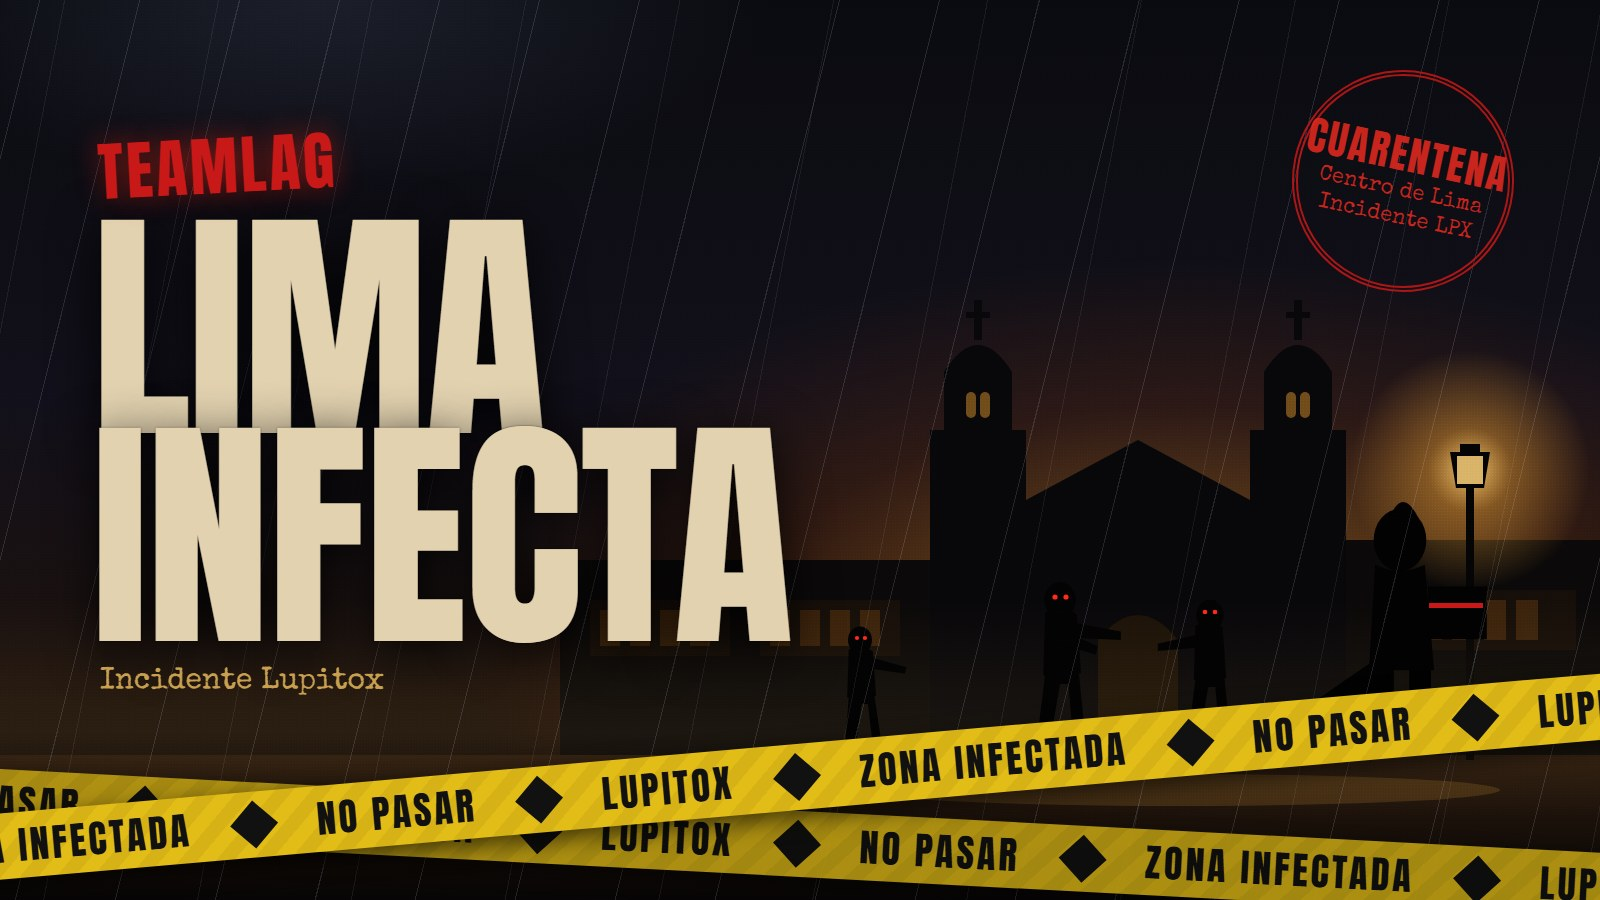
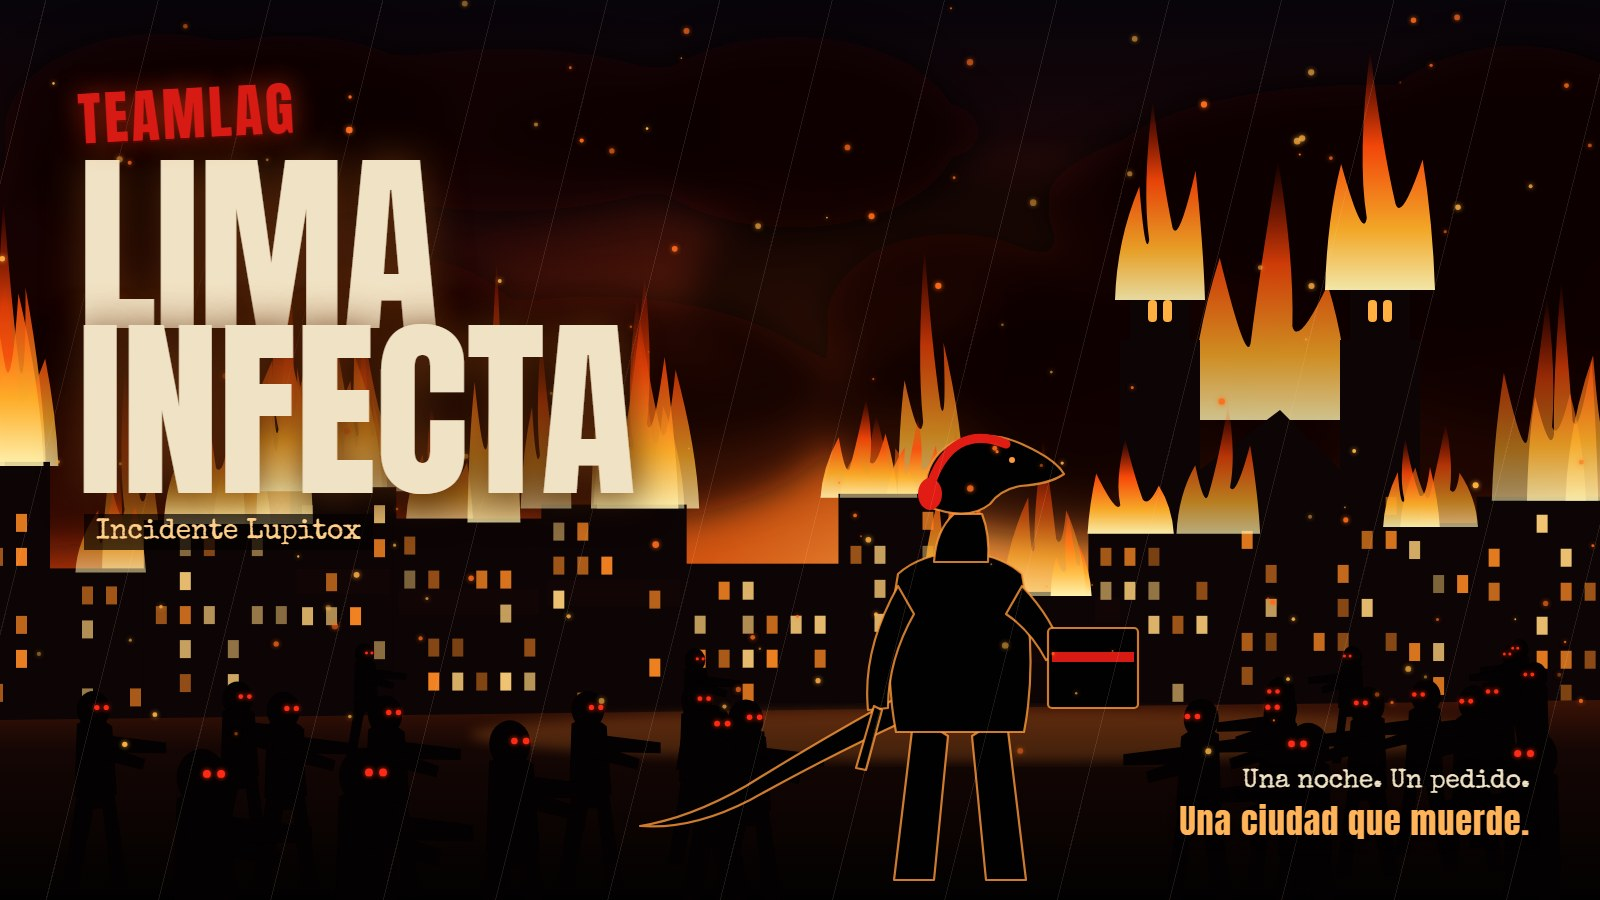
feat(games): portada de Lima Infecta con la ciudad en llamas y texto del home según la sinopsis
Claude-Session: https://claude.ai/code/session_01KjzGMZMi7BwHjvGYCmFtGd

diff --git a/design/lima-infecta/portada.html b/design/lima-infecta/portada.html
@@ -4,191 +4,207 @@
 <meta charset="utf-8">
 <link href="https://fonts.googleapis.com/css2?family=Anton&family=Special+Elite&display=block" rel="stylesheet">
 <style>
-  html, body { margin: 0; padding: 0; background: #000; }
-  .poster {
-    position: relative; width: 1600px; height: 900px; overflow: hidden;
-    background:
-      radial-gradient(ellipse 60% 55% at 74% 70%, rgba(214, 140, 40, .55), rgba(120, 50, 10, .25) 45%, transparent 75%),
-      radial-gradient(ellipse 40% 30% at 20% 0%, rgba(80, 90, 120, .25), transparent 70%),
-      linear-gradient(#0a0b10 0%, #12101a 45%, #1d120c 78%, #0a0706 100%);
-    font-family: Georgia, serif;
-  }
-  .rain {
-    position: absolute; inset: 0; pointer-events: none; opacity: .5;
-    background-image:
-      repeating-linear-gradient(104deg, transparent 0 38px, rgba(210, 220, 240, .28) 38px 39px, transparent 39px 97px),
-      repeating-linear-gradient(101deg, transparent 0 63px, rgba(210, 220, 240, .16) 63px 64px, transparent 64px 151px);
-  }
-  .grain {
-    position: absolute; inset: 0; opacity: .18; mix-blend-mode: overlay;
-    background-image: radial-gradient(rgba(255,255,255,.5) 1px, transparent 1px);
-    background-size: 3px 3px;
-  }
-  svg.city { position: absolute; left: 0; bottom: 0; width: 1600px; height: 900px; }
-  .title {
-    position: absolute; left: 92px; top: 118px; color: #e2d2b0;
-  }
+  html, body { margin: 0; background: #000; }
+  .poster { position: relative; width: 1600px; height: 900px; overflow: hidden; background: #050304; }
+  svg { position: absolute; inset: 0; width: 1600px; height: 900px; }
+  .title { position: absolute; left: 78px; top: 70px; color: #f0e2c4; }
   .stamp {
-    display: inline-block; font-family: Anton, Impact, sans-serif; font-size: 64px; letter-spacing: 3px;
-    color: #c81818; transform: rotate(-3deg); text-shadow: 0 0 28px rgba(255, 40, 20, .45);
-    margin-left: 6px;
+    display: inline-block; font-family: Anton, Impact, sans-serif; font-size: 58px; letter-spacing: 3px;
+    color: #d81a14; transform: rotate(-3deg); text-shadow: 0 0 26px rgba(255, 60, 20, .6), 0 2px 0 #300;
   }
   .name {
-    font-family: Anton, Impact, sans-serif; font-size: 248px; line-height: .84; text-transform: uppercase;
-    letter-spacing: -2px; margin-top: 10px;
-    text-shadow: 0 10px 50px rgba(0,0,0,.85), 0 0 2px rgba(0,0,0,.6);
+    font-family: Anton, Impact, sans-serif; font-size: 196px; line-height: .84; text-transform: uppercase;
+    letter-spacing: -1px; margin-top: 6px;
+    text-shadow: 0 0 40px rgba(255, 120, 30, .35), 0 8px 40px rgba(0, 0, 0, .9);
   }
-  .sub {
-    font-family: 'Special Elite', monospace; font-size: 30px; color: #c8a050; margin-top: 26px; margin-left: 8px;
+  .sub { display: inline-block; font-family: 'Special Elite', monospace; font-size: 28px; color: #ffcf8a; margin: 22px 0 0 6px; padding: 4px 12px; background: rgba(5,2,2,.7); }
+  .tag {
+    position: absolute; right: 70px; bottom: 54px; text-align: right;
+    font-family: 'Special Elite', monospace; font-size: 26px; color: #f0e2c4; text-shadow: 0 2px 12px #000;
   }
-  .tape {
-    position: absolute; left: -80px; width: 1800px; height: 66px;
-    background: #e3bd17;
-    box-shadow: 0 8px 22px rgba(0,0,0,.6);
-    display: flex; align-items: center; gap: 46px; white-space: nowrap; overflow: hidden;
-    font-family: Anton, Impact, sans-serif; font-size: 38px; letter-spacing: 3px; color: #111;
-    background-image: repeating-linear-gradient(135deg, rgba(0,0,0,.06) 0 14px, transparent 14px 28px);
+  .tag b { font-family: Anton, Impact, sans-serif; font-weight: 400; color: #ffb45a; font-size: 34px; letter-spacing: 1px; }
+  .rain {
+    position: absolute; inset: 0; opacity: .22; pointer-events: none;
+    background-image: repeating-linear-gradient(104deg, transparent 0 44px, rgba(255, 220, 190, .5) 44px 45px, transparent 45px 109px);
   }
-  .tape span { flex: none; }
-  .tape i { flex: none; width: 34px; height: 34px; background: #111; transform: rotate(45deg); }
-  .tape-1 { top: 742px; transform: rotate(-5deg); }
-  .tape-2 { top: 812px; transform: rotate(3deg); opacity: .92; filter: brightness(.82); }
-  .seal {
-    position: absolute; right: 86px; top: 70px; width: 210px; height: 210px; border-radius: 50%;
-    border: 6px double rgba(200, 24, 24, .85); color: rgba(220, 40, 30, .9);
-    display: grid; place-items: center; text-align: center; transform: rotate(12deg);
-    font-family: 'Special Elite', monospace; font-size: 22px; line-height: 1.25;
-    box-shadow: inset 0 0 0 10px transparent;
-  }
-  .seal b { display: block; font-family: Anton, Impact, sans-serif; font-weight: 400; font-size: 40px; letter-spacing: 2px; }
 </style>
 </head>
 <body>
-<div class="poster" id="poster">
-  <svg class="city" viewBox="0 0 1600 900" aria-hidden="true">
+<div class="poster">
+  <svg viewBox="0 0 1600 900" id="art">
     <defs>
-      <radialGradient id="lamp" cx="50%" cy="50%" r="50%">
-        <stop offset="0" stop-color="#ffd27a" stop-opacity=".95"/>
-        <stop offset=".35" stop-color="#e09a35" stop-opacity=".45"/>
-        <stop offset="1" stop-color="#e09a35" stop-opacity="0"/>
-      </radialGradient>
-      <linearGradient id="wet" x1="0" y1="0" x2="0" y2="1">
-        <stop offset="0" stop-color="#2a1a0e"/>
-        <stop offset="1" stop-color="#070505"/>
+      <linearGradient id="sky" x1="0" y1="0" x2="0" y2="1">
+        <stop offset="0" stop-color="#07040a"/>
+        <stop offset=".35" stop-color="#2a0806"/>
+        <stop offset=".62" stop-color="#9a2a08"/>
+        <stop offset=".78" stop-color="#e2620f"/>
+        <stop offset="1" stop-color="#2a0a04"/>
       </linearGradient>
+      <radialGradient id="blaze" cx="62%" cy="70%" r="55%">
+        <stop offset="0" stop-color="#ffcf6a" stop-opacity=".9"/>
+        <stop offset=".35" stop-color="#ff7a1a" stop-opacity=".55"/>
+        <stop offset="1" stop-color="#ff4a10" stop-opacity="0"/>
+      </radialGradient>
+      <linearGradient id="flame" x1="0" y1="1" x2="0" y2="0">
+        <stop offset="0" stop-color="#fff2b0"/>
+        <stop offset=".25" stop-color="#ffb02a"/>
+        <stop offset=".6" stop-color="#ff4a0a"/>
+        <stop offset="1" stop-color="#ff2a00" stop-opacity="0"/>
+      </linearGradient>
+      <linearGradient id="street" x1="0" y1="0" x2="0" y2="1">
+        <stop offset="0" stop-color="#3a1206"/>
+        <stop offset=".25" stop-color="#140604"/>
+        <stop offset="1" stop-color="#020101"/>
+      </linearGradient>
+      <filter id="blur18"><feGaussianBlur stdDeviation="18"/></filter>
+      <filter id="blur6"><feGaussianBlur stdDeviation="6"/></filter>
+      <filter id="glow"><feGaussianBlur stdDeviation="2.5" result="b"/><feMerge><feMergeNode in="b"/><feMergeNode in="SourceGraphic"/></feMerge></filter>
     </defs>
 
-    <!-- Catedral de Lima: dos torres con campanarios y cúpulas -->
-    <g fill="#08070a">
-      <rect x="930" y="430" width="96" height="330"/>
-      <rect x="944" y="372" width="68" height="70"/>
-      <path d="M944 372 Q978 318 1012 372 Z"/>
-      <rect x="974" y="300" width="8" height="40"/>
-      <rect x="966" y="312" width="24" height="6"/>
-      <rect x="1250" y="430" width="96" height="330"/>
-      <rect x="1264" y="372" width="68" height="70"/>
-      <path d="M1264 372 Q1298 318 1332 372 Z"/>
-      <rect x="1294" y="300" width="8" height="40"/>
-      <rect x="1286" y="312" width="24" height="6"/>
-      <rect x="1026" y="500" width="224" height="260"/>
-      <path d="M1026 500 L1138 440 L1250 500 Z"/>
-      <path d="M1098 760 L1098 640 Q1138 590 1178 640 L1178 760 Z" fill="#1c1208"/>
-    </g>
-    <!-- ventanas de campanario con luz tenue -->
-    <g fill="#c8862a" opacity=".55">
-      <rect x="966" y="392" width="10" height="26" rx="5"/><rect x="980" y="392" width="10" height="26" rx="5"/>
-      <rect x="1286" y="392" width="10" height="26" rx="5"/><rect x="1300" y="392" width="10" height="26" rx="5"/>
-    </g>
+    <rect width="1600" height="900" fill="url(#sky)"/>
+    <rect width="1600" height="900" fill="url(#blaze)"/>
+    <g id="smoke" filter="url(#blur18)"></g>
+    <g id="flamesBack"></g>
+    <g id="city" fill="#0c0405"></g>
+    <g id="windows"></g>
+    <g id="flamesFront"></g>
 
-    <!-- Casonas con balcones limeños -->
-    <g fill="#0b0909">
-      <rect x="560" y="560" width="370" height="200"/>
-      <rect x="1346" y="540" width="270" height="220"/>
-    </g>
-    <g fill="#160e09">
-      <rect x="590" y="600" width="140" height="56"/>
-      <rect x="760" y="600" width="140" height="56"/>
-      <rect x="1376" y="590" width="200" height="60"/>
-    </g>
-    <g fill="#5a3410" opacity=".55">
-      <rect x="600" y="610" width="20" height="36"/><rect x="630" y="610" width="20" height="36"/><rect x="660" y="610" width="20" height="36"/><rect x="690" y="610" width="20" height="36"/>
-      <rect x="770" y="610" width="20" height="36"/><rect x="800" y="610" width="20" height="36"/><rect x="830" y="610" width="20" height="36"/><rect x="860" y="610" width="20" height="36"/>
-      <rect x="1388" y="600" width="22" height="40"/><rect x="1420" y="600" width="22" height="40"/><rect x="1452" y="600" width="22" height="40"/><rect x="1484" y="600" width="22" height="40"/><rect x="1516" y="600" width="22" height="40"/>
-    </g>
+    <!-- calle -->
+    <path d="M0 720 L1600 700 L1600 900 L0 900 Z" fill="url(#street)"/>
+    <ellipse cx="990" cy="735" rx="520" ry="26" fill="#ff8a2a" opacity=".22" filter="url(#blur6)"/>
 
-    <!-- calle mojada -->
-    <rect x="0" y="755" width="1600" height="145" fill="url(#wet)"/>
-    <ellipse cx="1180" cy="790" rx="320" ry="16" fill="#e09a35" opacity=".18"/>
+    <g id="horde"></g>
+    <g id="eyes" filter="url(#glow)"></g>
 
-    <!-- farol -->
-    <circle cx="1470" cy="470" r="120" fill="url(#lamp)"/>
-    <g fill="#060506">
-      <rect x="1466" y="480" width="8" height="280"/>
-      <path d="M1450 452 L1490 452 L1484 488 L1456 488 Z"/>
-      <rect x="1460" y="444" width="20" height="8"/>
-    </g>
-    <rect x="1457" y="456" width="26" height="28" fill="#ffd27a" opacity=".85"/>
-
-    <!-- niebla baja -->
-    <linearGradient id="fog" x1="0" y1="0" x2="0" y2="1"><stop offset="0" stop-color="#c8a050" stop-opacity="0"/><stop offset=".6" stop-color="#c8a050" stop-opacity=".09"/><stop offset="1" stop-color="#c8a050" stop-opacity="0"/></linearGradient><rect x="0" y="600" width="1600" height="220" fill="url(#fog)"/>
-
-    <!-- infectados acercándose desde la Catedral -->
-    <g fill="#040304">
-      <g transform="translate(1060 600) scale(1.05)">
-        <ellipse cx="0" cy="0" rx="15" ry="17"/>
-        <path d="M-14 12 Q0 4 16 14 L20 70 L-16 72 Z"/>
-        <path d="M14 22 L58 30 L58 38 L14 36 Z"/><path d="M-10 24 L36 44 L34 52 L-12 38 Z"/>
-        <path d="M-14 70 L-24 150 L-12 150 L0 80 L8 80 L14 150 L26 150 L18 70 Z"/>
+    <!-- Lag: de espaldas, solo, con la caja del pedido -->
+    <g id="lag" transform="translate(960 500)">
+      <g fill="#020101" stroke="#ff9a3a" stroke-width="2.2" stroke-opacity=".8" stroke-linejoin="round">
+        <!-- cola gruesa que se afina hacia la izquierda -->
+        <path d="M-40 214 Q-120 250 -210 300 Q-268 330 -320 326 Q-270 318 -214 286 Q-140 240 -60 196 Z"/>
+        <!-- piernas -->
+        <path d="M-46 214 L-66 380 L-26 380 L-12 236 Z"/>
+        <path d="M46 214 L66 380 L26 380 L12 236 Z"/>
+        <!-- torso con chaqueta -->
+        <path d="M-62 74 Q-78 160 -64 232 L64 232 Q78 160 62 74 Q40 54 0 52 Q-40 54 -62 74 Z"/>
+        <!-- brazo izquierdo con cuchillo de cocina -->
+        <path d="M-62 86 Q-98 150 -92 210 L-72 208 Q-72 160 -46 114 Z"/>
+        <path d="M-86 206 L-104 268 L-94 270 L-78 210 Z"/>
+        <!-- brazo derecho sujetando el pedido -->
+        <path d="M62 86 Q94 120 102 152 L86 160 Q70 130 46 114 Z"/>
+        <rect x="88" y="128" width="90" height="80" rx="4"/>
+        <!-- cuello y cabeza de lagarto mirando a la ciudad (hocico hacia arriba a la derecha) -->
+        <path d="M-26 62 Q-24 30 -6 14 L22 14 Q30 34 28 62 Z"/>
+        <path d="M-34 6 Q-40 -40 -6 -58 Q30 -72 66 -54 Q96 -40 104 -26 Q90 -16 60 -14 Q40 -10 30 4 Q8 22 -34 6 Z"/>
       </g>
-      <g transform="translate(860 640) scale(.8)">
-        <ellipse cx="0" cy="0" rx="15" ry="17"/>
-        <path d="M-14 12 Q0 4 16 14 L20 70 L-16 72 Z"/>
-        <path d="M14 22 L58 34 L56 42 L14 36 Z"/>
-        <path d="M-14 70 L-20 150 L-8 150 L2 80 L10 80 L18 150 L30 150 L18 70 Z"/>
-      </g>
-      <g transform="translate(1210 615) scale(.9)">
-        <ellipse cx="0" cy="0" rx="15" ry="17"/>
-        <path d="M-16 12 Q0 4 14 14 L18 70 L-18 72 Z"/>
-        <path d="M-14 22 L-58 32 L-58 40 L-14 36 Z"/>
-        <path d="M-16 70 L-26 150 L-14 150 L-2 80 L6 80 L12 150 L24 150 L16 70 Z"/>
-      </g>
+      <!-- audífonos rojos, como en el juego -->
+      <path d="M-30 -14 Q-8 -78 46 -56" fill="none" stroke="#e01c14" stroke-width="9" stroke-linecap="round"/>
+      <ellipse cx="-30" cy="-6" rx="12" ry="16" fill="#e01c14"/>
+      <!-- franja roja de la caja del pedido -->
+      <rect x="92" y="152" width="82" height="10" fill="#d81a14"/>
+      <circle cx="52" cy="-40" r="3" fill="#ff9a3a"/>
     </g>
-    <g fill="#ff2a1a">
-      <circle cx="1055" cy="597" r="2.6"/><circle cx="1066" cy="597" r="2.6"/>
-      <circle cx="857" cy="638" r="2.1"/><circle cx="865" cy="638" r="2.1"/>
-      <circle cx="1205" cy="612" r="2.3"/><circle cx="1215" cy="612" r="2.3"/>
-    </g>
-
-    <!-- Lag a contraluz del farol: lagarto delivery con su caja -->
-    <g transform="translate(1400 540) scale(1.55)" fill="#020202">
-      <ellipse cx="0" cy="0" rx="17" ry="20"/>
-      <path d="M-6 -16 Q2 -34 12 -14 Z"/>
-      <path d="M-16 16 Q0 24 16 16 L22 84 L-20 84 Z"/>
-      <rect x="-18" y="82" width="14" height="52"/>
-      <rect x="6" y="82" width="14" height="52"/>
-      <path d="M-14 76 Q-56 104 -84 126 Q-90 132 -82 132 Q-46 116 -6 92 Z"/>
-      <rect x="18" y="30" width="38" height="34"/>
-    </g>
-    <rect x="1429" y="603" width="54" height="5" fill="#c81818"/>
+    <g id="embers" filter="url(#glow)"></g>
   </svg>
-
   <div class="rain"></div>
-  <div class="grain"></div>
-
-  <div class="seal"><span><b>CUARENTENA</b>Centro de Lima<br>Incidente LPX</span></div>
 
   <div class="title">
     <span class="stamp">TEAMLAG</span>
     <div class="name">Lima<br>Infecta</div>
     <div class="sub">Incidente Lupitox</div>
   </div>
-
-  <div class="tape tape-2">
-    <span>NO PASAR</span><i></i><span>ZONA INFECTADA</span><i></i><span>LUPITOX</span><i></i><span>NO PASAR</span><i></i><span>ZONA INFECTADA</span><i></i><span>LUPITOX</span><i></i><span>NO PASAR</span><i></i><span>ZONA INFECTADA</span>
-  </div>
-  <div class="tape tape-1">
-    <span>ZONA INFECTADA</span><i></i><span>NO PASAR</span><i></i><span>LUPITOX</span><i></i><span>ZONA INFECTADA</span><i></i><span>NO PASAR</span><i></i><span>LUPITOX</span><i></i><span>ZONA INFECTADA</span><i></i><span>NO PASAR</span>
-  </div>
+  <div class="tag">Una noche. Un pedido.<br><b>Una ciudad que muerde.</b></div>
 </div>
+
+<script>
+  const NS = 'http://www.w3.org/2000/svg';
+  let seed = 7; const rnd = () => (seed = (seed * 16807) % 2147483647) / 2147483647;
+  const el = (tag, attrs, parent) => { const e = document.createElementNS(NS, tag); for (const k in attrs) e.setAttribute(k, attrs[k]); parent.appendChild(e); return e; };
+  const $ = id => document.getElementById(id);
+
+  // Skyline del Centro de Lima: casonas, balcones y la Catedral
+  const city = $('city'), win = $('windows');
+  const blocks = [];
+  let x = -20;
+  while (x < 1620) {
+    const w = 70 + rnd() * 110, h = 120 + rnd() * 150;
+    blocks.push({ x, w, h });
+    x += w - 4;
+  }
+  blocks.forEach(b => {
+    const top = 720 - b.h;
+    el('rect', { x: b.x, y: top, width: b.w, height: b.h + 10 }, city);
+    if (rnd() < .5) el('rect', { x: b.x + 6, y: top + b.h * .35, width: b.w - 12, height: 26, fill: '#120506' }, city);
+    for (let wy = top + 18; wy < 700; wy += 34) for (let wx = b.x + 12; wx < b.x + b.w - 14; wx += 24) {
+      if (rnd() < .45) el('rect', { x: wx, y: wy, width: 11, height: 18, fill: rnd() < .6 ? '#ff8a24' : '#ffd07a', opacity: .45 + rnd() * .5 }, win);
+    }
+  });
+  // Catedral ardiendo, al centro-izquierda del fuego
+  const cx = 1270;
+  [[cx - 150, 340], [cx + 70, 340]].forEach(([tx, ty]) => {
+    el('rect', { x: tx, y: ty, width: 80, height: 720 - ty }, city);
+    el('rect', { x: tx + 10, y: ty - 54, width: 60, height: 58 }, city);
+    el('path', { d: `M${tx + 10} ${ty - 54} Q${tx + 40} ${ty - 104} ${tx + 70} ${ty - 54} Z` }, city);
+    el('rect', { x: tx + 37, y: ty - 132, width: 6, height: 36 }, city);
+    el('rect', { x: tx + 29, y: ty - 122, width: 22, height: 5 }, city);
+    el('rect', { x: tx + 28, y: ty - 40, width: 9, height: 22, rx: 4, fill: '#ffb040' }, win);
+    el('rect', { x: tx + 43, y: ty - 40, width: 9, height: 22, rx: 4, fill: '#ffb040' }, win);
+  });
+  el('path', { d: `M${cx - 70} 470 L${cx + 10} 410 L${cx + 70} 470 Z` }, city);
+  el('rect', { x: cx - 70, y: 470, width: 140, height: 250 }, city);
+
+  // Llamas sobre los techos
+  const fb = $('flamesBack'), ff = $('flamesFront');
+  const flame = (fx, fy, fw, fh, parent, op) => {
+    const j = () => (rnd() - .5) * fw * .25;
+    const L = fx - fw / 2, R = fx + fw / 2;
+    const t1 = [fx - fw * .28 + j(), fy - fh * (.45 + rnd() * .2)];
+    const d1 = [fx - fw * .12, fy - fh * .3];
+    const t2 = [fx + j(), fy - fh];
+    const d2 = [fx + fw * .14, fy - fh * .36];
+    const t3 = [fx + fw * .3 + j(), fy - fh * (.5 + rnd() * .2)];
+    const d = `M${L} ${fy} Q${L + fw * .02} ${fy - fh * .3} ${t1[0]} ${t1[1]} Q${d1[0] - 4} ${d1[1] + fh * .1} ${d1[0]} ${d1[1]} ` +
+      `Q${t2[0] - fw * .12} ${fy - fh * .55} ${t2[0]} ${t2[1]} Q${t2[0] + fw * .1} ${fy - fh * .62} ${d2[0]} ${d2[1]} ` +
+      `Q${d2[0] + 6} ${d2[1] + fh * .08} ${t3[0]} ${t3[1]} Q${R - fw * .02} ${fy - fh * .28} ${R} ${fy} Z`;
+    el('path', { d, fill: 'url(#flame)', opacity: op }, parent);
+  };
+  blocks.forEach(b => {
+    if (rnd() < .78) {
+      const n = 2 + Math.floor(rnd() * 3);
+      for (let i = 0; i < n; i++) flame(b.x + rnd() * b.w, 724 - b.h, 40 + rnd() * 70, 80 + rnd() * 190, rnd() < .5 ? fb : ff, .55 + rnd() * .45);
+    }
+  });
+  flame(cx - 110, 300, 90, 200, ff, .9); flame(cx + 110, 290, 110, 240, ff, .95); flame(cx, 420, 160, 260, fb, .8);
+
+  // Humo
+  const smoke = $('smoke');
+  for (let i = 0; i < 26; i++) el('ellipse', { cx: rnd() * 1600, cy: 120 + rnd() * 320, rx: 120 + rnd() * 200, ry: 50 + rnd() * 90, fill: '#0a0405', opacity: .5 + rnd() * .4 }, smoke);
+
+  // Horda: siluetas cojeando desde ambos lados, más grandes cuanto más cerca
+  const horde = $('horde'), eyes = $('eyes');
+  const zombie = (zx, zy, s, flip) => {
+    const g = el('g', { transform: `translate(${zx} ${zy}) scale(${flip ? -s : s} ${s})`, fill: '#030101' }, horde);
+    el('ellipse', { cx: 0, cy: 0, rx: 14, ry: 16 }, g);
+    el('path', { d: 'M-14 12 Q2 2 16 14 L20 72 L-16 74 Z' }, g);
+    el('path', { d: 'M14 22 L62 28 L62 37 L14 36 Z' }, g);
+    el('path', { d: 'M-8 24 L44 42 L42 51 L-10 38 Z' }, g);
+    el('path', { d: 'M-14 72 L-26 150 L-13 150 L0 84 L8 84 L16 150 L29 150 L18 72 Z' }, g);
+    const ex = flip ? -1 : 1;
+    el('circle', { cx: zx + ex * 3 * s, cy: zy - 2 * s, r: 2.2 * s, fill: '#ff2a12' }, eyes);
+    el('circle', { cx: zx + ex * 11 * s, cy: zy - 2 * s, r: 2.2 * s, fill: '#ff2a12' }, eyes);
+  };
+  const spots = [];
+  for (let i = 0; i < 26; i++) {
+    const left = i % 2 === 0;
+    const depth = rnd();
+    const zx = left ? 60 + rnd() * 700 : 1200 + rnd() * 380;
+    const zy = 640 + depth * 140;
+    spots.push([zx, zy, .55 + depth * 1.25, !left]);
+  }
+  spots.sort((a, b) => a[1] - b[1]).forEach(s => zombie(...s));
+
+  // Brasas en el aire
+  const em = $('embers');
+  for (let i = 0; i < 140; i++) el('circle', { cx: rnd() * 1600, cy: rnd() * 760, r: .8 + rnd() * 2.6, fill: rnd() < .5 ? '#ffb040' : '#ff6a1a', opacity: .4 + rnd() * .6 }, em);
+</script>
 </body>
 </html>
